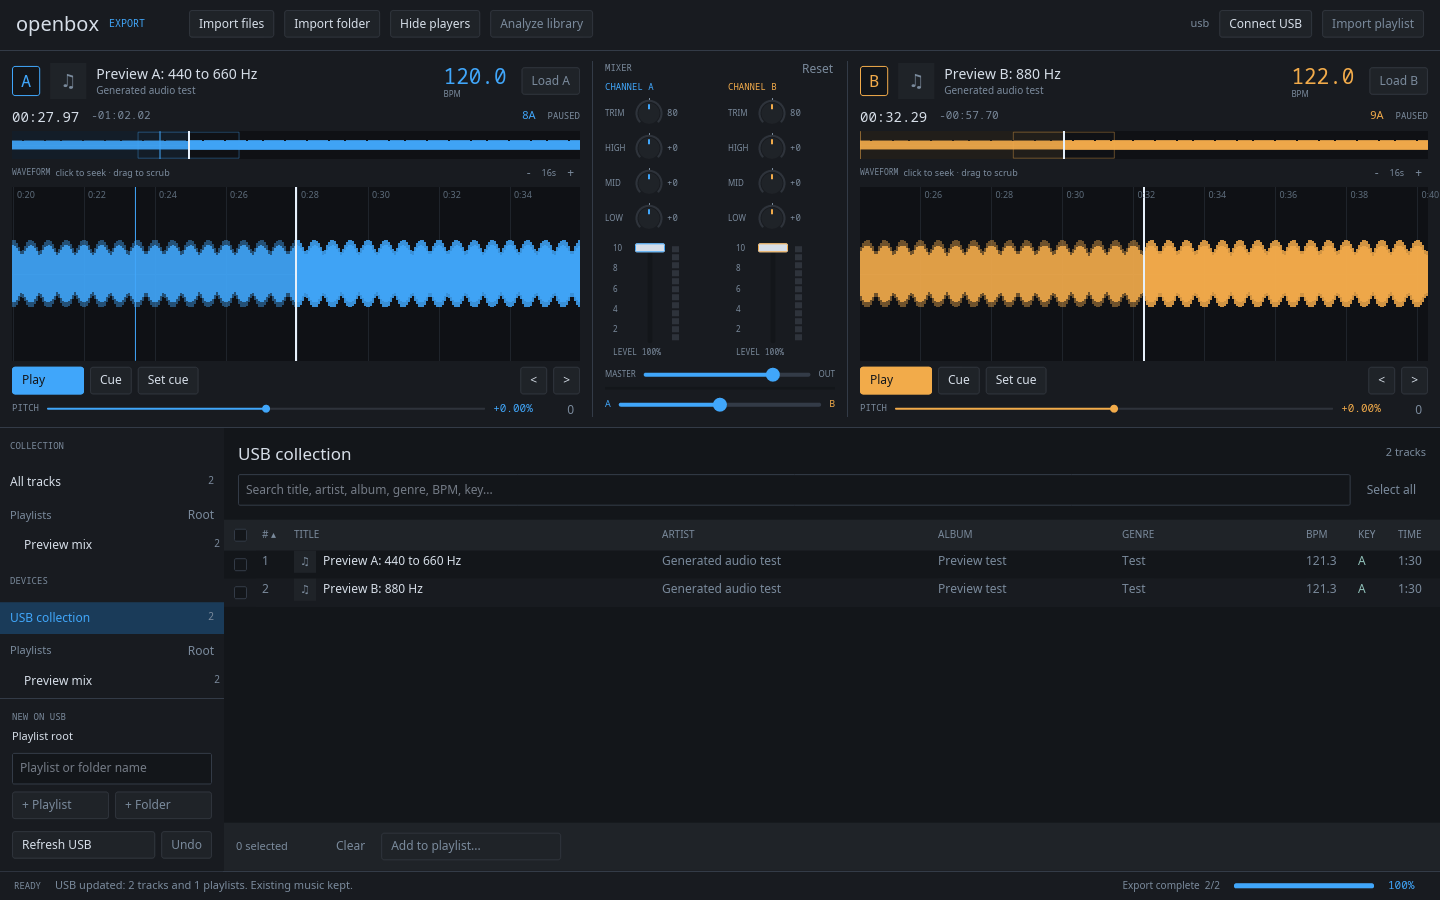
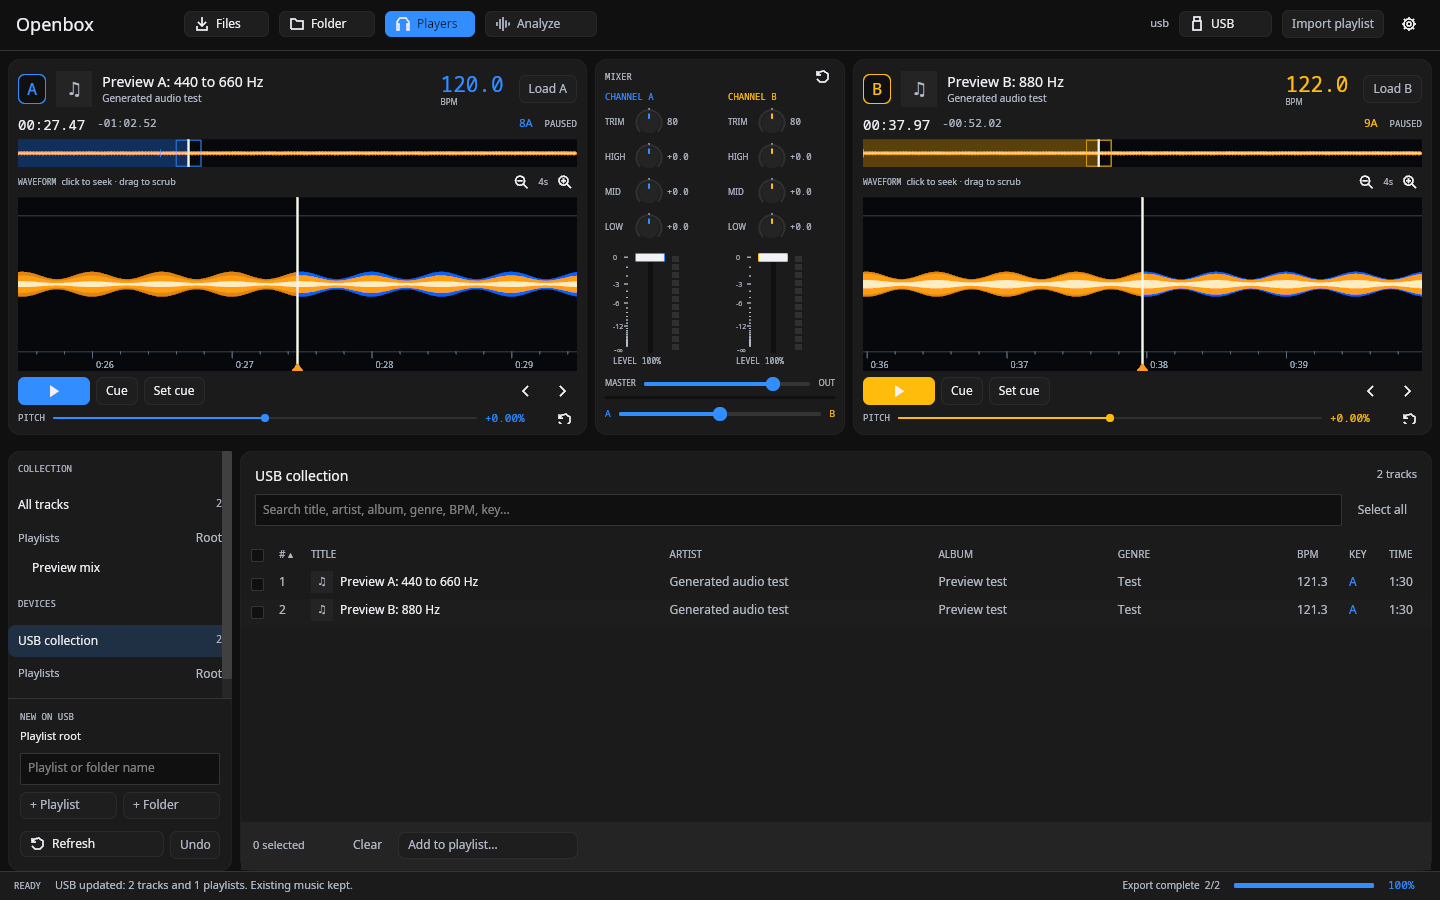
docs: document and show native preview appearance and verification

diff --git a/README.md b/README.md
@@ -16,7 +16,7 @@ Building audio preview on Linux also requires ALSA development headers (`libasou
 cargo run --release
 ```
 
-The desktop feature is enabled by default. `cargo run` also works; rendering dependencies are optimized in development builds. Cargo manages the Rust dependencies.
+The desktop and GPU renderer are enabled by default, with a software fallback. `cargo run` also works; rendering dependencies are optimized in development builds. Use `cargo run --no-default-features --features desktop` to build software rendering alone. Cargo manages the Rust dependencies.
 
 For generated demo music:
 
@@ -56,13 +56,20 @@ Local changes persist in `.prototype/library.json`, unless `--library` supplies 
 Click **Players** in the toolbar. Select one track in the collection or on the USB, then click **Load A** or **Load B**. Each song loads in the background without changing its source file.
 
 - **Play/Pause** controls each deck independently. **Set cue** stores the current position and pauses; **Cue** returns to it. Cue points belong to the preview session.
-- Click the full-track overview to jump anywhere. Click the scrolling waveform to seek, or drag it left/right to scrub. **+ / -** changes its visible time span from 4 to 64 seconds. The small **< / >** buttons move 50 ms for fine alignment.
-- Use pitch within ±8% to match analyzed BPM values manually. Pitch changes speed and pitch together. **0** resets it; there is no key lock or automatic sync. Detected beat lines appear in the scrolling waveform.
-- Each mixer channel has trim and EQ knobs above a vertical volume fader and a level meter. Drag knobs vertically or scroll to adjust; double-click or right-click to reset. Drag channel faders to mix levels; Ctrl-click resets them, and Shift gives fine adjustment. Meters show the signal before the fader, so you can watch a playing channel while its volume is down. The crossfader stays horizontal.
-- The mixer has three-band EQ, channel level, master level, signal meters and an equal-power crossfader. **Reset** restores neutral EQ and default levels. The output is limited to prevent samples exceeding full scale; **CLIP** indicates excessive gain.
+- Waveforms use layered frequency colors, finer detail, beat ticks and a fixed white playhead. Playback animates independently of the library browser.
+- Click the full-track overview to jump anywhere. Click the scrolling waveform to seek, or drag it left/right to scrub. The zoom icons change its visible time span from 1 to 64 seconds. The small arrow icons move 50 ms for fine alignment.
+- Use pitch within ±8% to match analyzed BPM values manually. Pitch changes speed and pitch together. The reset icon beside pitch returns it to zero; there is no key lock or automatic sync. Detected beat lines appear in the scrolling waveform.
+- Each mixer channel has trim and EQ knobs above a vertical volume fader and a level meter. Drag knobs vertically or scroll to adjust; hold Shift for finer motion; double-click or right-click to reset. Drag channel faders to mix levels; Ctrl-click resets them, and Shift gives fine adjustment. Meters show the signal before the fader, so you can watch a playing channel while its volume is down. The crossfader stays horizontal.
+- The mixer has three-band EQ, channel level, master level, signal meters and an equal-power crossfader. The mixer reset icon restores neutral EQ and default levels. The output is limited to prevent samples exceeding full scale; **CLIP** indicates excessive gain.
 - Hiding the players keeps playback running while you organise music. Playback uses the desktop's default output. **Retry audio** reconnects after an output error.
 
 Only the two selected songs are decoded, as shared stereo PCM with waveform envelopes. Preview supports files up to 30 minutes long. It has no separate headphone output, MIDI controls, recording or persistent performance cues.
+
+## Appearance
+
+Open Settings using the gear icon. Light and dark modes combine with eight materials and six saturated accents; Native uses Showbiz’s flat neutral surfaces. Ten waveform palettes are independent of the application theme. Choices persist beside the library in `library.settings.json`. Escape returns to the same browser position.
+
+![Appearance settings](docs/images/settings-dark.png)
 
 ## Manage a USB
 
@@ -78,7 +85,7 @@ Connect the root of a mounted FAT32 USB. Traditional Rekordbox libraries open di
 
 Export and batch transfer show a percentage bar in the bottom status section. Progress covers source checks, encoding within each song, waveform creation, file publication and database saving. It reaches 100% only after the resulting device library reopens successfully.
 
-Use **Refresh USB** after changing the device through another application. Eject it through the desktop before unplugging.
+Use **Refresh** in the USB panel after changing the device through another application. Eject it through the desktop before unplugging.
 
 ## Device preservation and limits
 
@@ -86,7 +93,7 @@ Opening a USB is read-only. Writes back up the previous database under `.openbox
 
 New collection audio is encoded as stereo 44.1 kHz, 320 kbps MP3 with DAT/EXT waveforms and detected beat entries. BPM and key are written into the device database and ID3 tags. Export compensates for MP3 priming delay so the grid follows the exported waveform. Existing USB audio, analysis and artwork remain byte for byte; unchanged transfers reuse their assets.
 
-Imports automatically analyze BPM, beats and musical key using [aubio](https://aubio.org/) and [Mixxx libkeyfinder](https://github.com/mixxxdj/libkeyfinder). For existing collections, click **Analyze library**, or select a batch and click **Analyze selected**, then reexport the playlist. Analysis progress appears in the status bar. An export also analyzes legacy tracks that have no stored analysis. Silence or short clips may produce no grid; the import status reports that count. Automatic 4/4 bar numbering starts at the first detected beat and does not identify the musical downbeat. Tempo, key and phase remain estimates to check by ear before relying on player sync/quantize.
+Imports automatically analyze BPM, beats and musical key using [aubio](https://aubio.org/) and [Mixxx libkeyfinder](https://github.com/mixxxdj/libkeyfinder). For existing collections, click **Analyze** to analyze the library, or select a batch first to analyze only those tracks, then reexport the playlist. Analysis progress appears in the status bar. An export also analyzes legacy tracks that have no stored analysis. Silence or short clips may produce no grid; the import status reports that count. Automatic 4/4 bar numbering starts at the first detected beat and does not identify the musical downbeat. Tempo, key and phase remain estimates to check by ear before relying on player sync/quantize.
 
 Lofty reads ID3 and other supported tags. Titles, artists, albums, genres, album artists, composers, comments, dates and track/disc numbers are retained; the browser and preview decks display cover artwork. USB export writes ID3v2.3 with an embedded JPEG and registers 80x80 and 240x240 artwork files. USB playlist import copies artwork, audio and the grid locally so they remain available after unplugging. Local cue editing and exporting imported cues to another device are not implemented.
 
@@ -112,7 +119,7 @@ Adapters depend on the domain. Application operations use the adapters. The desk
 
 Track rows are rendered only around the visible viewport. Selection remains based on track identities across the full filtered list. See [ADR 002](docs/adr/002-workspace-and-bulk-browser.md).
 
-The device adapter uses [Bake'n Deck](https://github.com/M-Igashi/baken), pinned to revision `2789f0615236affdf65d856171b58dfd1eb2425d`. Independent format tests use [rekordcrate](https://github.com/Holzhaus/rekordcrate). See [ADR 004](docs/adr/004-analysis-and-artwork.md) and [third-party licensing notices](THIRD-PARTY-NOTICES.md) for the analysis dependencies. GPLv3 requirements apply when distributing the combined executable.
+The device adapter uses [Bake'n Deck](https://github.com/M-Igashi/baken), pinned to revision `2789f0615236affdf65d856171b58dfd1eb2425d`. Independent format tests use [rekordcrate](https://github.com/Holzhaus/rekordcrate). See [waveform rendering decisions](docs/adr/005-waveform-rendering.md), [ADR 004](docs/adr/004-analysis-and-artwork.md) and [third-party licensing notices](THIRD-PARTY-NOTICES.md) for the analysis dependencies. GPLv3 requirements apply when distributing the combined executable.
 
 ## Validate
 
@@ -123,13 +130,16 @@ cargo fmt --all -- --check
 cargo build --release
 node scripts/demo.mjs
 xvfb-run -a -s '-screen 0 1600x1100x24' node scripts/smoke.mjs
-xvfb-run -a -s '-screen 0 1600x1100x24' node scripts/players-smoke.mjs
+xvfb-run -a -s '-screen 0 1600x1100x24' node scripts/settings-smoke.mjs
+OPENBOX_CHECK_MOTION=1 node scripts/players-smoke.mjs
 xvfb-run -a -s '-screen 0 1600x1100x24' node scripts/analysis-smoke.mjs
 ```
 
+Workspace code also uses light optimization in development builds so `cargo run` keeps preview rendering responsive.
+
 The native smoke harness uses the release executable, a 510-track collection, generated audio and a real Rekordbox database fixture in isolated temporary folders. It exercises keyboard selection, bulk edits, playlist creation from selection, scrolling, sorted batch USB transfer, replacement, deletion/Undo, nested trees and import. It checks original audio, analysis and database pages byte for byte. It requires Node.js, Xvfb, xdotool and ImageMagick. Set `OPENBOX_BIN=target/debug/openbox` to test a development executable.
 
-The player harness also requires `pactl` and `parec`. It creates an isolated test output, records generated tones to verify the sound, and removes that output afterwards without changing the desktop's default sink.
+The motion check requires FFmpeg and an accelerated X11 desktop. Xvfb provides software rendering for the functional checks. The player harness also requires `pactl` and `parec`. It creates an isolated test output, records generated tones to verify the sound, and removes that output afterwards without changing the desktop's default sink.
 
 For core crates without the desktop feature:
 

diff --git a/docs/VALIDATION.md b/docs/VALIDATION.md
@@ -5,13 +5,13 @@ Validated on Linux with Rust 1.96.1 and Iced 0.14. Commands use Cargo directly.
 | Check | Result |
 |---|---|
 | `cargo test --workspace --no-default-features` | Core crate tests |
-| `cargo test --workspace --all-targets` | 65 tests passed, including audio mixing, waveform seeking, export progress, selection, bulk commands and startup parsing |
+| `cargo test --workspace --all-targets` | 71 tests passed; 2 manual timing harnesses ignored, including audio mixing, waveform seeking, export progress, selection, bulk commands and startup parsing |
 | `cargo check --workspace --all-targets` | Passed for desktop and all targets |
 | `cargo clippy --workspace --all-targets -- -D warnings` | Passed with warnings treated as errors |
 | `cargo fmt --all -- --check` | Passed |
 | Native smoke harness (`scripts/smoke.mjs`) | Native Iced workflow passed under Xvfb with release and development executables |
 | Audio smoke harness (`scripts/players-smoke.mjs`) | Native two-deck audio and export workflow passed with an isolated PulseAudio/PipeWire test sink |
-| `cargo build` | Passed with optimized development dependencies |
+| `cargo build` | Passed with optimized workspace code and dependencies |
 | `cargo build --release` | Passed; stripped executable approximately 18 MB |
 | Native analysis harness (`scripts/analysis-smoke.mjs`) | Bulk reanalysis, ID3 tags, visible artwork, grid and USB artwork/analysis export passed |
 | XDJ-1000 playback | User confirmed playlist visibility; new grid, BPM/key and artwork behavior pending hardware |
@@ -38,6 +38,20 @@ The new analysis tests feed untagged generated rhythmic/harmonic audio into the 
 
 Export tests use rekordcrate to independently parse PQTZ, the key/BPM records, metadata and artwork rows. The MP3 priming test compares an exported grid point to the peak of decoded exported audio with a one-millisecond tolerance. Cover export checks embedded ID3 art, 240x240 device art, ID allocation alongside existing artwork, reuse and byte preservation of original assets. USB import tests unplug the temporary device and verify local artwork/audio/grid remain available. Legacy tracks are analyzed during export without altering the local library.
 
-The native analysis harness uses a real tagged MP3 with front-cover art, clicks Analyze library, loads the analyzed track in a deck, checks the visible cover's pixels, exports its playlist, and checks persisted analysis/artwork and unchanged source bytes. The audio harness drags each channel fader, checks independent muting through recorded output, resets the fader with Ctrl-click, and checks the trim knob separately. It also checks the crossfader, pitch, cue and seek controls. A mixer regression test verifies trim and fader multiplication, a live pre-fader meter, continued playback with a closed fader, and isolation between channels.
+The native analysis harness uses a real tagged MP3 with front-cover art, clicks Analyze, loads the analyzed track in a deck, checks the visible cover's pixels, exports its playlist, and checks persisted analysis/artwork and unchanged source bytes. The audio harness drags each channel fader, checks independent muting through recorded output, resets the fader with Ctrl-click, and checks the trim knob separately. It also checks the crossfader, pitch, cue and seek controls. A mixer regression test verifies trim and fader multiplication, a live pre-fader meter, continued playback with a closed fader, and isolation between channels.
 
 Automatic beat numbering assumes 4/4 from the first detected beat. Musical downbeat identification is not implemented. These checks prove file contents and app behavior, not player sync/quantize compatibility. No physical USB was written during automated validation.
+
+## Waveform and interaction polish
+
+The rendered-pixel regression checks blue bass ahead of the playhead and a warm waveform behind it using the real software renderer. The envelope tests check frequency-band dominance, higher-resolution detail, silence and invalid time bounds. Position tests check interpolation between snapshots, pitch, pause and track end. A knob test reproduces consecutive drags being mistaken for double-click reset. A native layout test verifies the library retains a useful viewport when the player panel is toggled.
+
+`OPENBOX_CHECK_MOTION=1` adds a 60 fps X11 capture to the player harness. It compares consecutive waveform crops, excluding the cursor, and requires at least 45 distinct updates per second. In this environment the previous release produced 23.1 fps; the GPU development build produced 53 distinct frames/sec on the Intel UHD desktop. Xvfb software rendering measured about 23 fps with the detailed rulers. These are local fixture measurements rather than a guarantee for every GPU, display, CPU or library.
+
+Three ignored timing harnesses can be run with `cargo test --release profile_ -- --ignored --nocapture`. They measure software waveform rasterization and construction/layout of a cached, filtered/sorted 5,000-track browser. Warm browser construction/layout measured about 0.08 ms at p95 after caching; previously browser construction alone measured about 3.8 ms. The overview cache and bounded envelope queries prevent full-song scans during animation. See ADR 005 for the rendering and cache rules.
+
+The development profile optimizes the software rasterizer without disabling application or USB invariant checks. Its detailed waveform rasterization measured about 2.0 ms at p95, versus 4.4 ms with the previous renderer settings.
+
+## Appearance and panels
+
+The native settings journey exercises both modes, eight materials, six accents and ten waveform palettes, preference persistence across restart, restoring defaults and retaining the selected browser row after closing Settings. It checks that library and audio bytes are unchanged. Palette tests exercise 96 combinations for text contrast, accent saturation and persistence. A native layout test checks separate inset panels for the two decks and mixer. The default background/panel/chrome test uses the exact neutral Showbiz surface colours. Screenshots capture the actual native window.

diff --git a/docs/adr/005-waveform-rendering.md b/docs/adr/005-waveform-rendering.md
@@ -1,0 +1,19 @@
+# 005: Separate waveform animation from library redraws
+
+Status: accepted. Extends ADR 003.
+
+Dragging a mixer control rebuilt and filtered the library, and waveform movement depended on a 33 ms application timer. The native capture harness measured roughly 23 distinct waveform frames per second. Repeated rectangular peak bars also produced coarse edges and flattened the visible shape.
+
+The browser uses Iced's lazy widget with an explicit content revision. Library/navigation/selection events invalidate it; audio snapshots and mixer controls do not. Its widgets own their display strings so the cached tree cannot borrow outdated library records. Metadata refresh remains tied to completed imports/reanalysis, rather than every mixer event.
+
+The audio crate builds a 500-bin-per-second envelope and a hierarchy of coarser levels while decoding a selected clip in the background. Each point reads at most two bins, including full-track views. Stereo channels contribute independently to three crossover band energies so phase cancellation cannot erase their waveform. This is display analysis and does not change music analysis or USB exports.
+
+The UI paints connected mirrored shapes, with blue low-frequency energy, amber mids and a pale high-frequency core. Passed audio has a warm outer layer. The overview geometry is cached per clip and dimensions. Beat ticks, bar numbers, cue and playhead remain separate overlays.
+
+Playing waveform canvases request redraws every 16 ms and interpolate the latest audio position using playback rate. Snapshots, clocks and meters refresh at 80 ms. Position clamps at the clip end and freezes when paused. Seeking resets the interpolation anchor. Canvas redraws do not send application messages or rebuild the browser.
+
+The application uses Iced’s GPU-first fallback renderer, an established wgpu composition path, with tiny-skia retained when GPU initialization fails. Software rendering remains selectable through Cargo features. Moving ruler labels use outlined glyph paths with bounded damage regions because software canvas text otherwise invalidates the entire viewport. The development profile optimizes application code and uses release-like settings for tiny-skia. Debug and overflow checks remain enabled for application, library and USB code.
+
+Knob drags clear double-click tracking once they move, support Shift for finer motion, and suppress unchanged value messages. Icon tooltips wait 500 ms to avoid immediately covering adjacent controls. Native screenshot capture checks visible motion; recorded audio still verifies control behavior.
+
+Showbiz (`../showbiz/frontend/src/globals.css` and `desktop.css`, MIT) informs the neutral Native material, compact chrome, inset rounded panels and restrained blue selections. Other Showbiz material tokens are adapted into explicit Rust palettes. Mode, material and accent compose independently; waveform palettes remain independent. The settings dialog preserves the underlying widget tree and blocks input to the dimmed workspace. Preferences save atomically in a separate settings file.

diff --git a/CONTEXT.md b/CONTEXT.md
@@ -13,7 +13,7 @@ USB playlists can be imported into the local library with copied audio. Library 
 
 A **selection** contains track identities in the currently filtered browser. Shift selects a range in displayed order; Ctrl toggles tracks; Select all selects the full filtered list. A **bulk edit** adds, removes or reorders that selection with one save. The desktop renders only rows around the visible viewport and keeps local/device navigation available together.
 
-A **preview deck** holds one decoded clip, its playback position, pitch and temporary cue point. An overview waveform covers the whole clip; a scrolling waveform follows playback and supports scrubbing. The **preview mixer** combines both decks with channel EQ/level, an equal-power crossfader and master level. Preview reads local or USB audio without changing library metadata, source files or device cues.
+A **preview deck** holds one decoded clip, its playback position, pitch and temporary cue point. A frequency-colored overview waveform covers the whole clip; a scrolling waveform follows playback and supports scrubbing. Preview envelope data has multiple resolutions, and waveform animation extrapolates between audio snapshots without rebuilding the browser. The **preview mixer** combines both decks with channel EQ/level, an equal-power crossfader and master level. Preview reads local or USB audio without changing library metadata, source files or device cues.
 
 **Export progress** reports completed transfer work, including encoder audio time and publication stages. It is monotonic and reaches 100% only after the committed device library is reopened.
 
